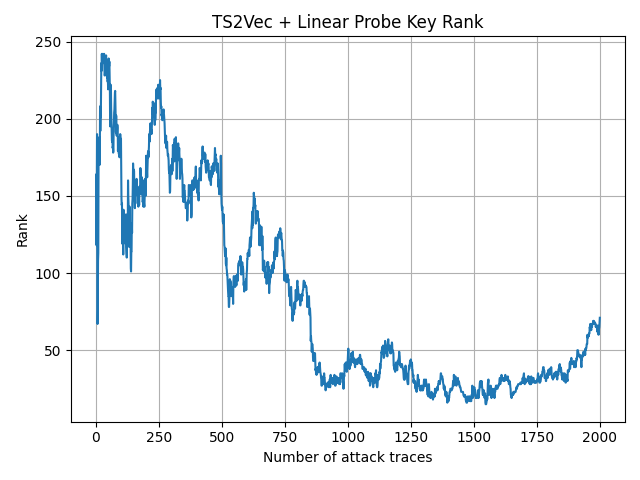
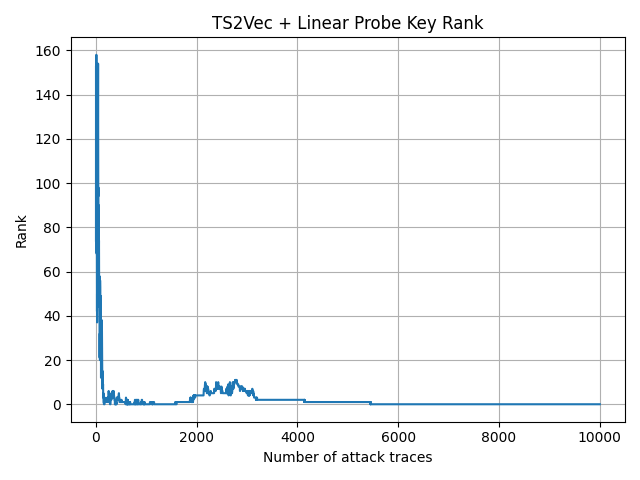
.

diff --git a/src/evaluation/rank_eval.py b/src/evaluation/rank_eval.py
@@ -82,10 +82,8 @@ def compute_rank_curve(
     for i in tqdm(range(num_traces), desc="Computing key rank"):
         plaintext_byte = int(metadata[i]["plaintext"][target_byte])
 
-        # For every key guess k, compute Sbox(p ^ k).
         candidate_labels = AES_SBOX[np.bitwise_xor(plaintext_byte, key_candidates)]
 
-        # Probability assigned by the model to each key guess.
         key_probs = probas[i, candidate_labels]
 
         if use_log:
@@ -93,7 +91,6 @@ def compute_rank_curve(
         else:
             scores += key_probs
 
-        # Rank = number of candidates with score greater than the true key score.
         ranks[i] = int(np.sum(scores > scores[true_key]))
 
     return ranks

diff --git a/src/methods/ts2vec_rank_pipeline.py b/src/methods/ts2vec_rank_pipeline.py
@@ -19,7 +19,7 @@ TS2VEC_ROOT = PROJECT_ROOT / "external" / "ts2vec"
 if str(TS2VEC_ROOT) not in sys.path:
     sys.path.insert(0, str(TS2VEC_ROOT))
 
-from ts2vec import TS2Vec  
+from ts2vec import TS2Vec
 
 
 def get_device(prefer_mps: bool = False) -> str:

diff --git a/weekly_updates/week05.md b/weekly_updates/week05.md
@@ -1,0 +1,53 @@
+rogress report (May 8, 2026)
+
+## Done
+1. successfully run the Ts2Vec algorithem on ASCAD raw dataset, the result is great.
+
+blow is the experiment result:
+
+### TS2Vec Full ASCAD Rank Result
+
+#### Setting
+
+- Dataset: ASCAD.h5
+- Profiling traces: 50,000
+- Attack traces: 10,000
+- TS2Vec epochs: 10
+- Representation dimension: 320
+- Downstream classifier: Logistic Regression
+- Target byte: 2
+
+#### TS2Vec Loss
+
+Epoch 0: 59.5049
+Epoch 1: 2.5544
+Epoch 2: 1.9165
+Epoch 3: 1.6118
+Epoch 4: 1.3485
+Epoch 5: 1.1018
+Epoch 6: 0.9589
+Epoch 7: 0.8135
+Epoch 8: 0.6686
+Epoch 9: 0.5488
+
+#### Rank Result
+
+- Final rank: 0
+- Minimum rank: 0
+
+The correct target key byte was successfully recovered.
+
+The graph is:
+![ts2vec result](ts2vec_linear_probe_rank.png)
+
+2. have learned basic knowledge of ResNet
+
+## Doing 
+1. reading triplet power paper
+
+
+## Block and Question
+
+
+
+## Next Step

diff --git a/outputs/ts2vec_rank/ts2vec_full_result_summary.md b/outputs/ts2vec_rank/ts2vec_full_result_summary.md
@@ -1,0 +1,31 @@
+# TS2Vec Full ASCAD Rank Result
+
+## Setting
+
+- Dataset: ASCAD.h5
+- Profiling traces: 50,000
+- Attack traces: 10,000
+- TS2Vec epochs: 10
+- Representation dimension: 320
+- Downstream classifier: Logistic Regression
+- Target byte: 2
+
+## TS2Vec Loss
+
+Epoch 0: 59.5049
+Epoch 1: 2.5544
+Epoch 2: 1.9165
+Epoch 3: 1.6118
+Epoch 4: 1.3485
+Epoch 5: 1.1018
+Epoch 6: 0.9589
+Epoch 7: 0.8135
+Epoch 8: 0.6686
+Epoch 9: 0.5488
+
+## Rank Result
+
+- Final rank: 0
+- Minimum rank: 0
+
+The correct target key byte was successfully recovered.